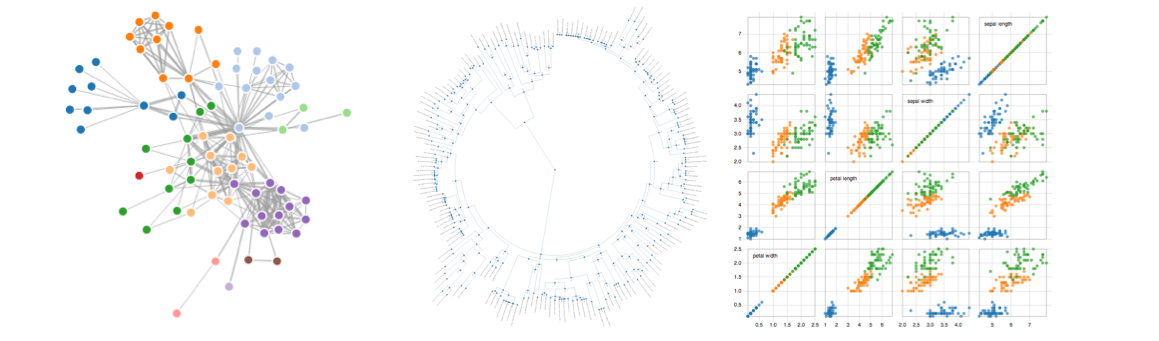
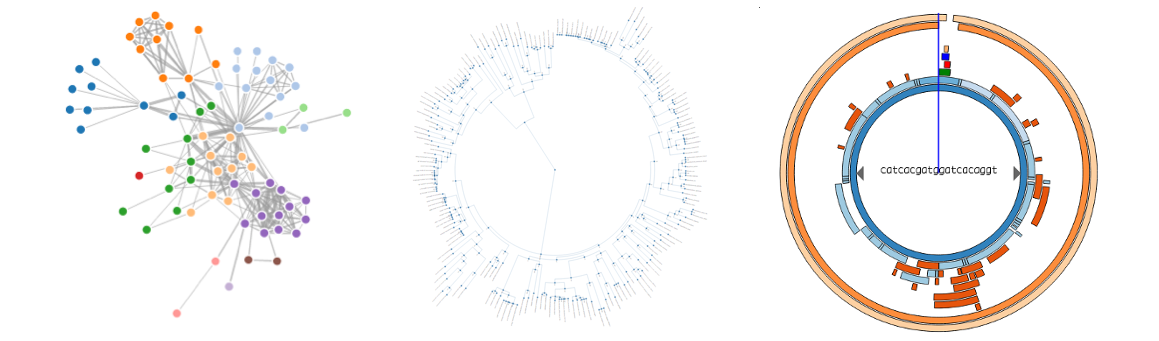
changed teaser img

Changed region(s): [[0.6212, 0.0293, 0.9629, 0.9971], [0.6212, 0.8798, 0.6523, 0.9384], [0.6212, 0.7625, 0.6523, 0.7918]]

diff --git a/index.md b/index.md
@@ -7,7 +7,7 @@ order: 1
 
 <img src="{{ site.baseurl }}/assets/i/teaser.png" width="800px;" />
 
-<div class="credits"><a href="">Protein Interaction Network</a> | <a href="">Phylogenetic Tree</a> | <a href="">Microarray Scatterplot</a></div>
+<div class="credits"><a href="http://registry.biojs.net/client/#/detail/biojs-vis-interactions-d3">Protein Interaction Network</a> | <a href="http://edu.biojs.net/demo/treeviewer.html">Phylogenetic Tree</a> | <a href="http://registry.biojs.net/client/#/detail/biojs-vis-circularfv">Circular feature viewer</a></div>
 
 BioJS is a library of biologically driven components that are easy to reuse, maintain and deploy on the web. This workshop aims to introduce the BioJS project and develop skills in the use of BioJS components. We will provide a “hello world” tutorial on creating a BioJS component and contributing to the project community. The second day will involve hackathon to develop new components, or porting existing JavaScript functionality into BioJS 2.0.
 
